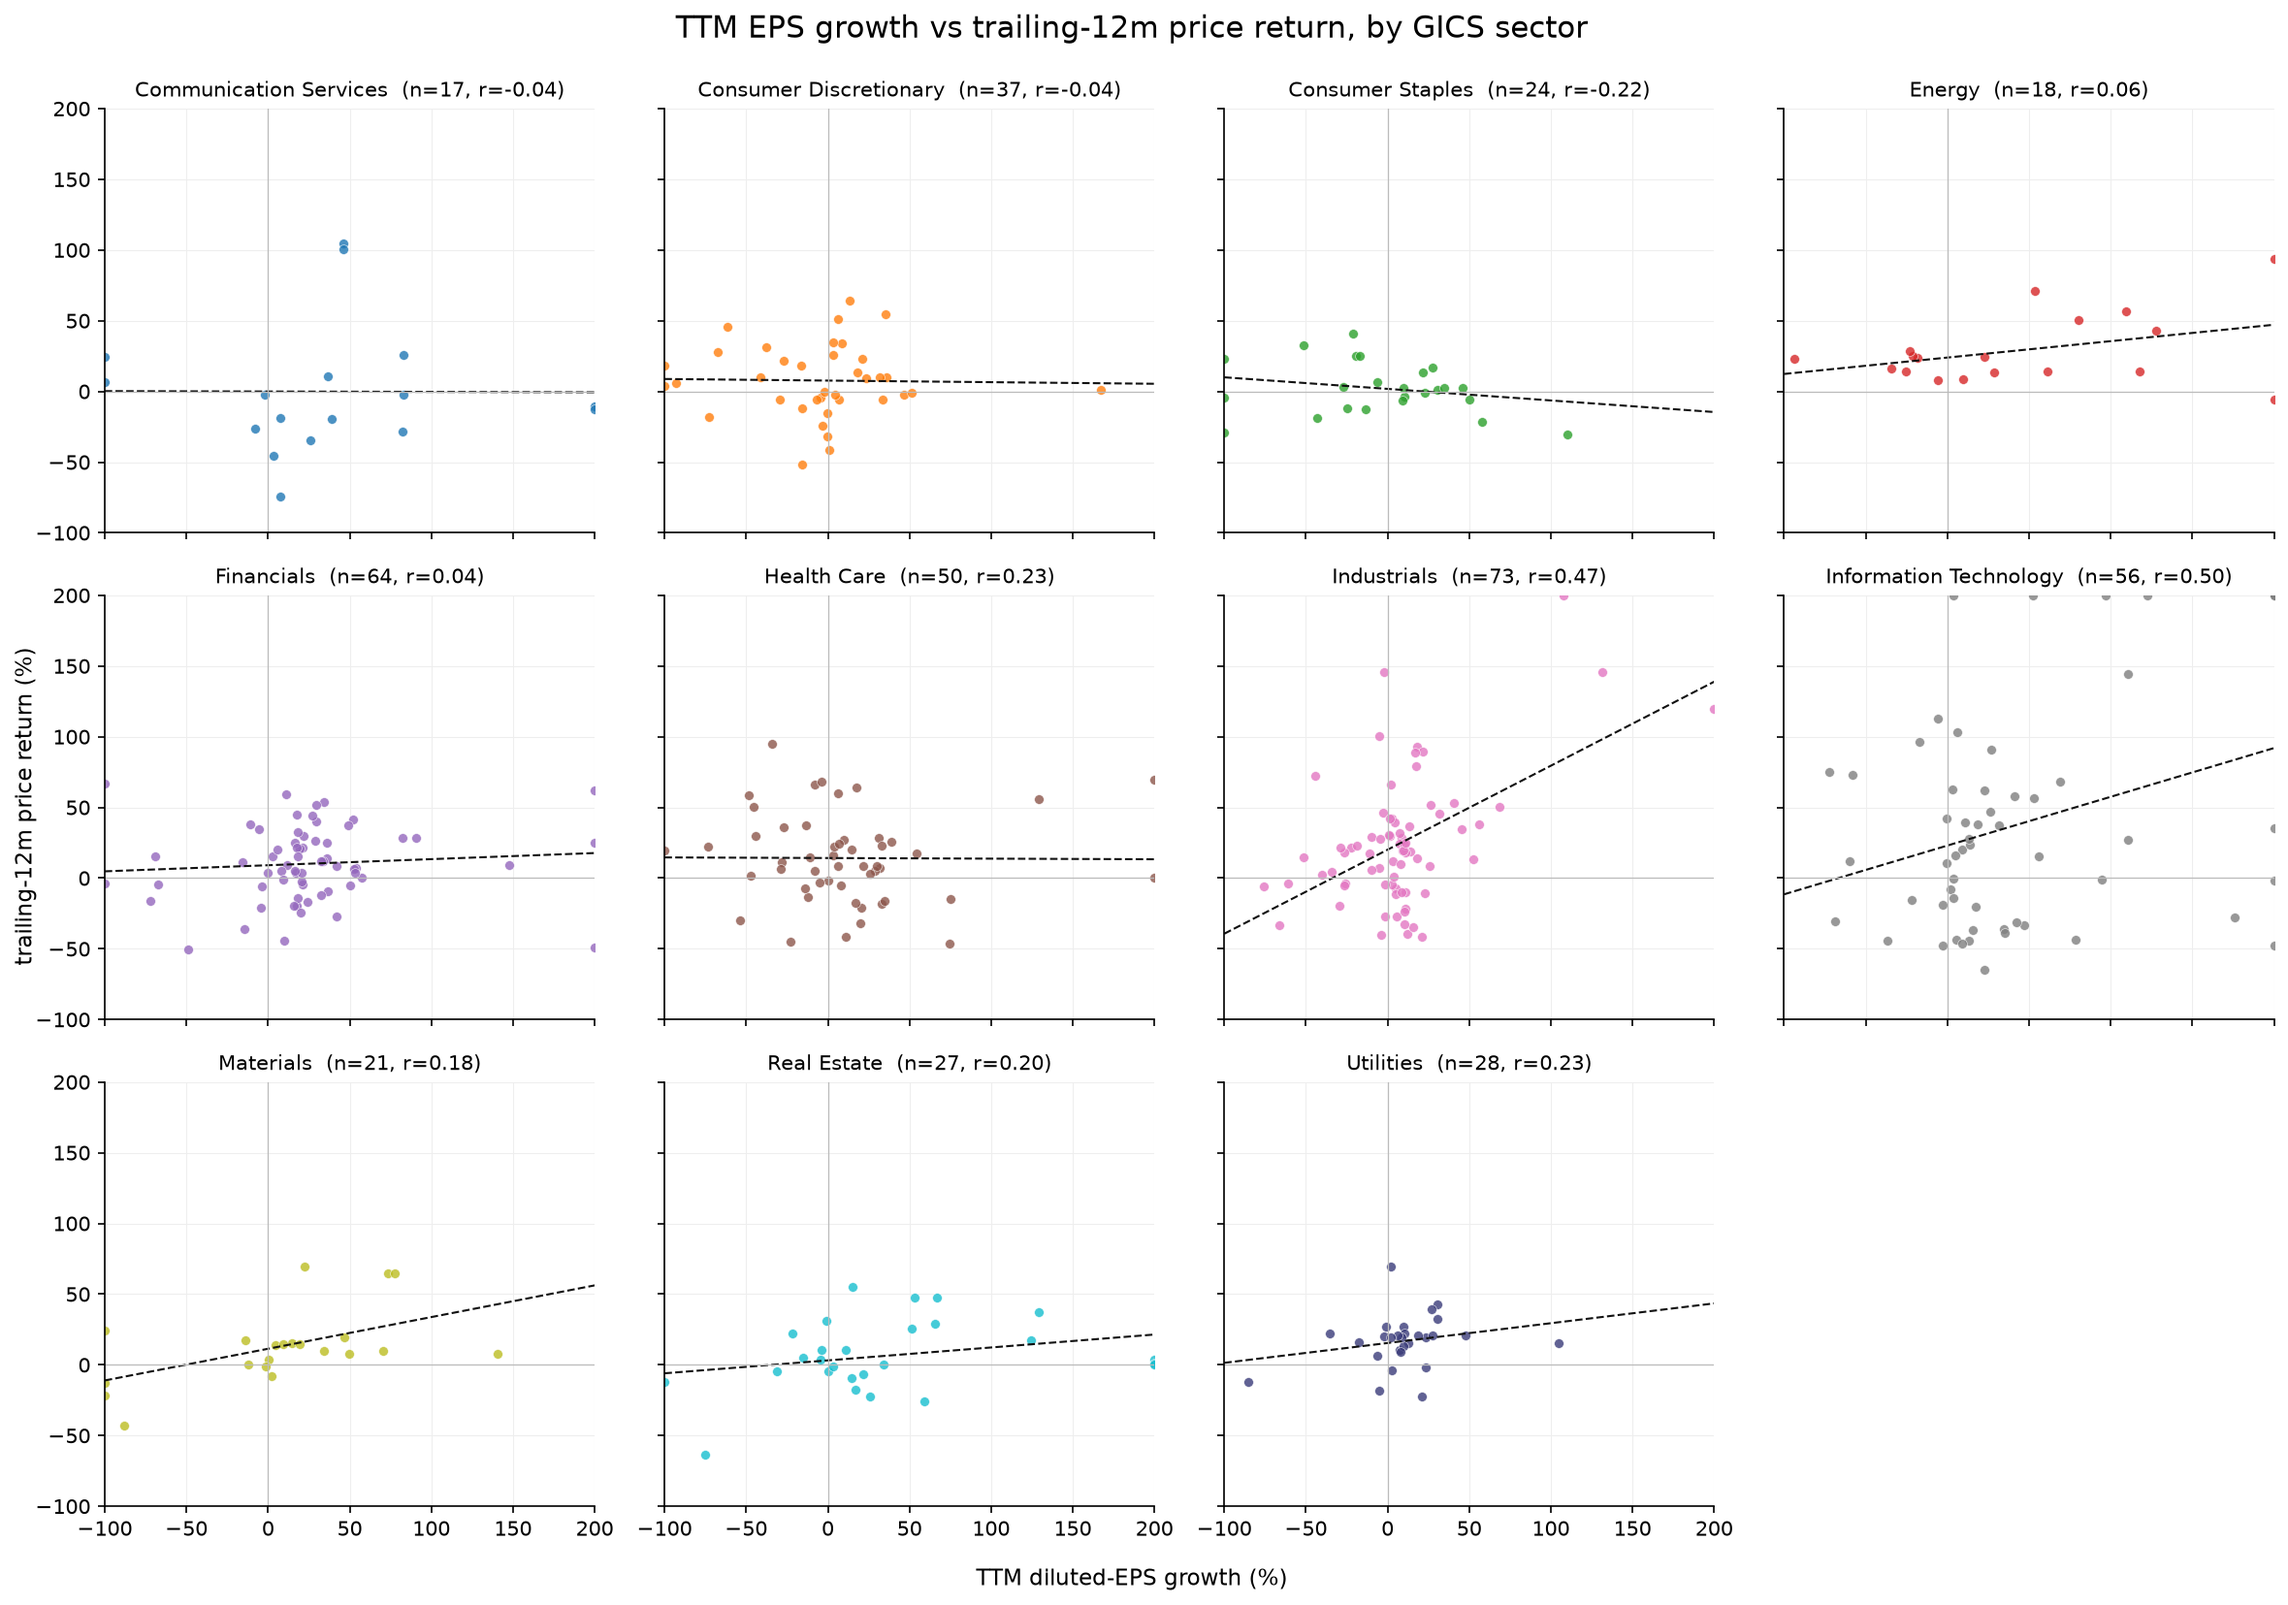
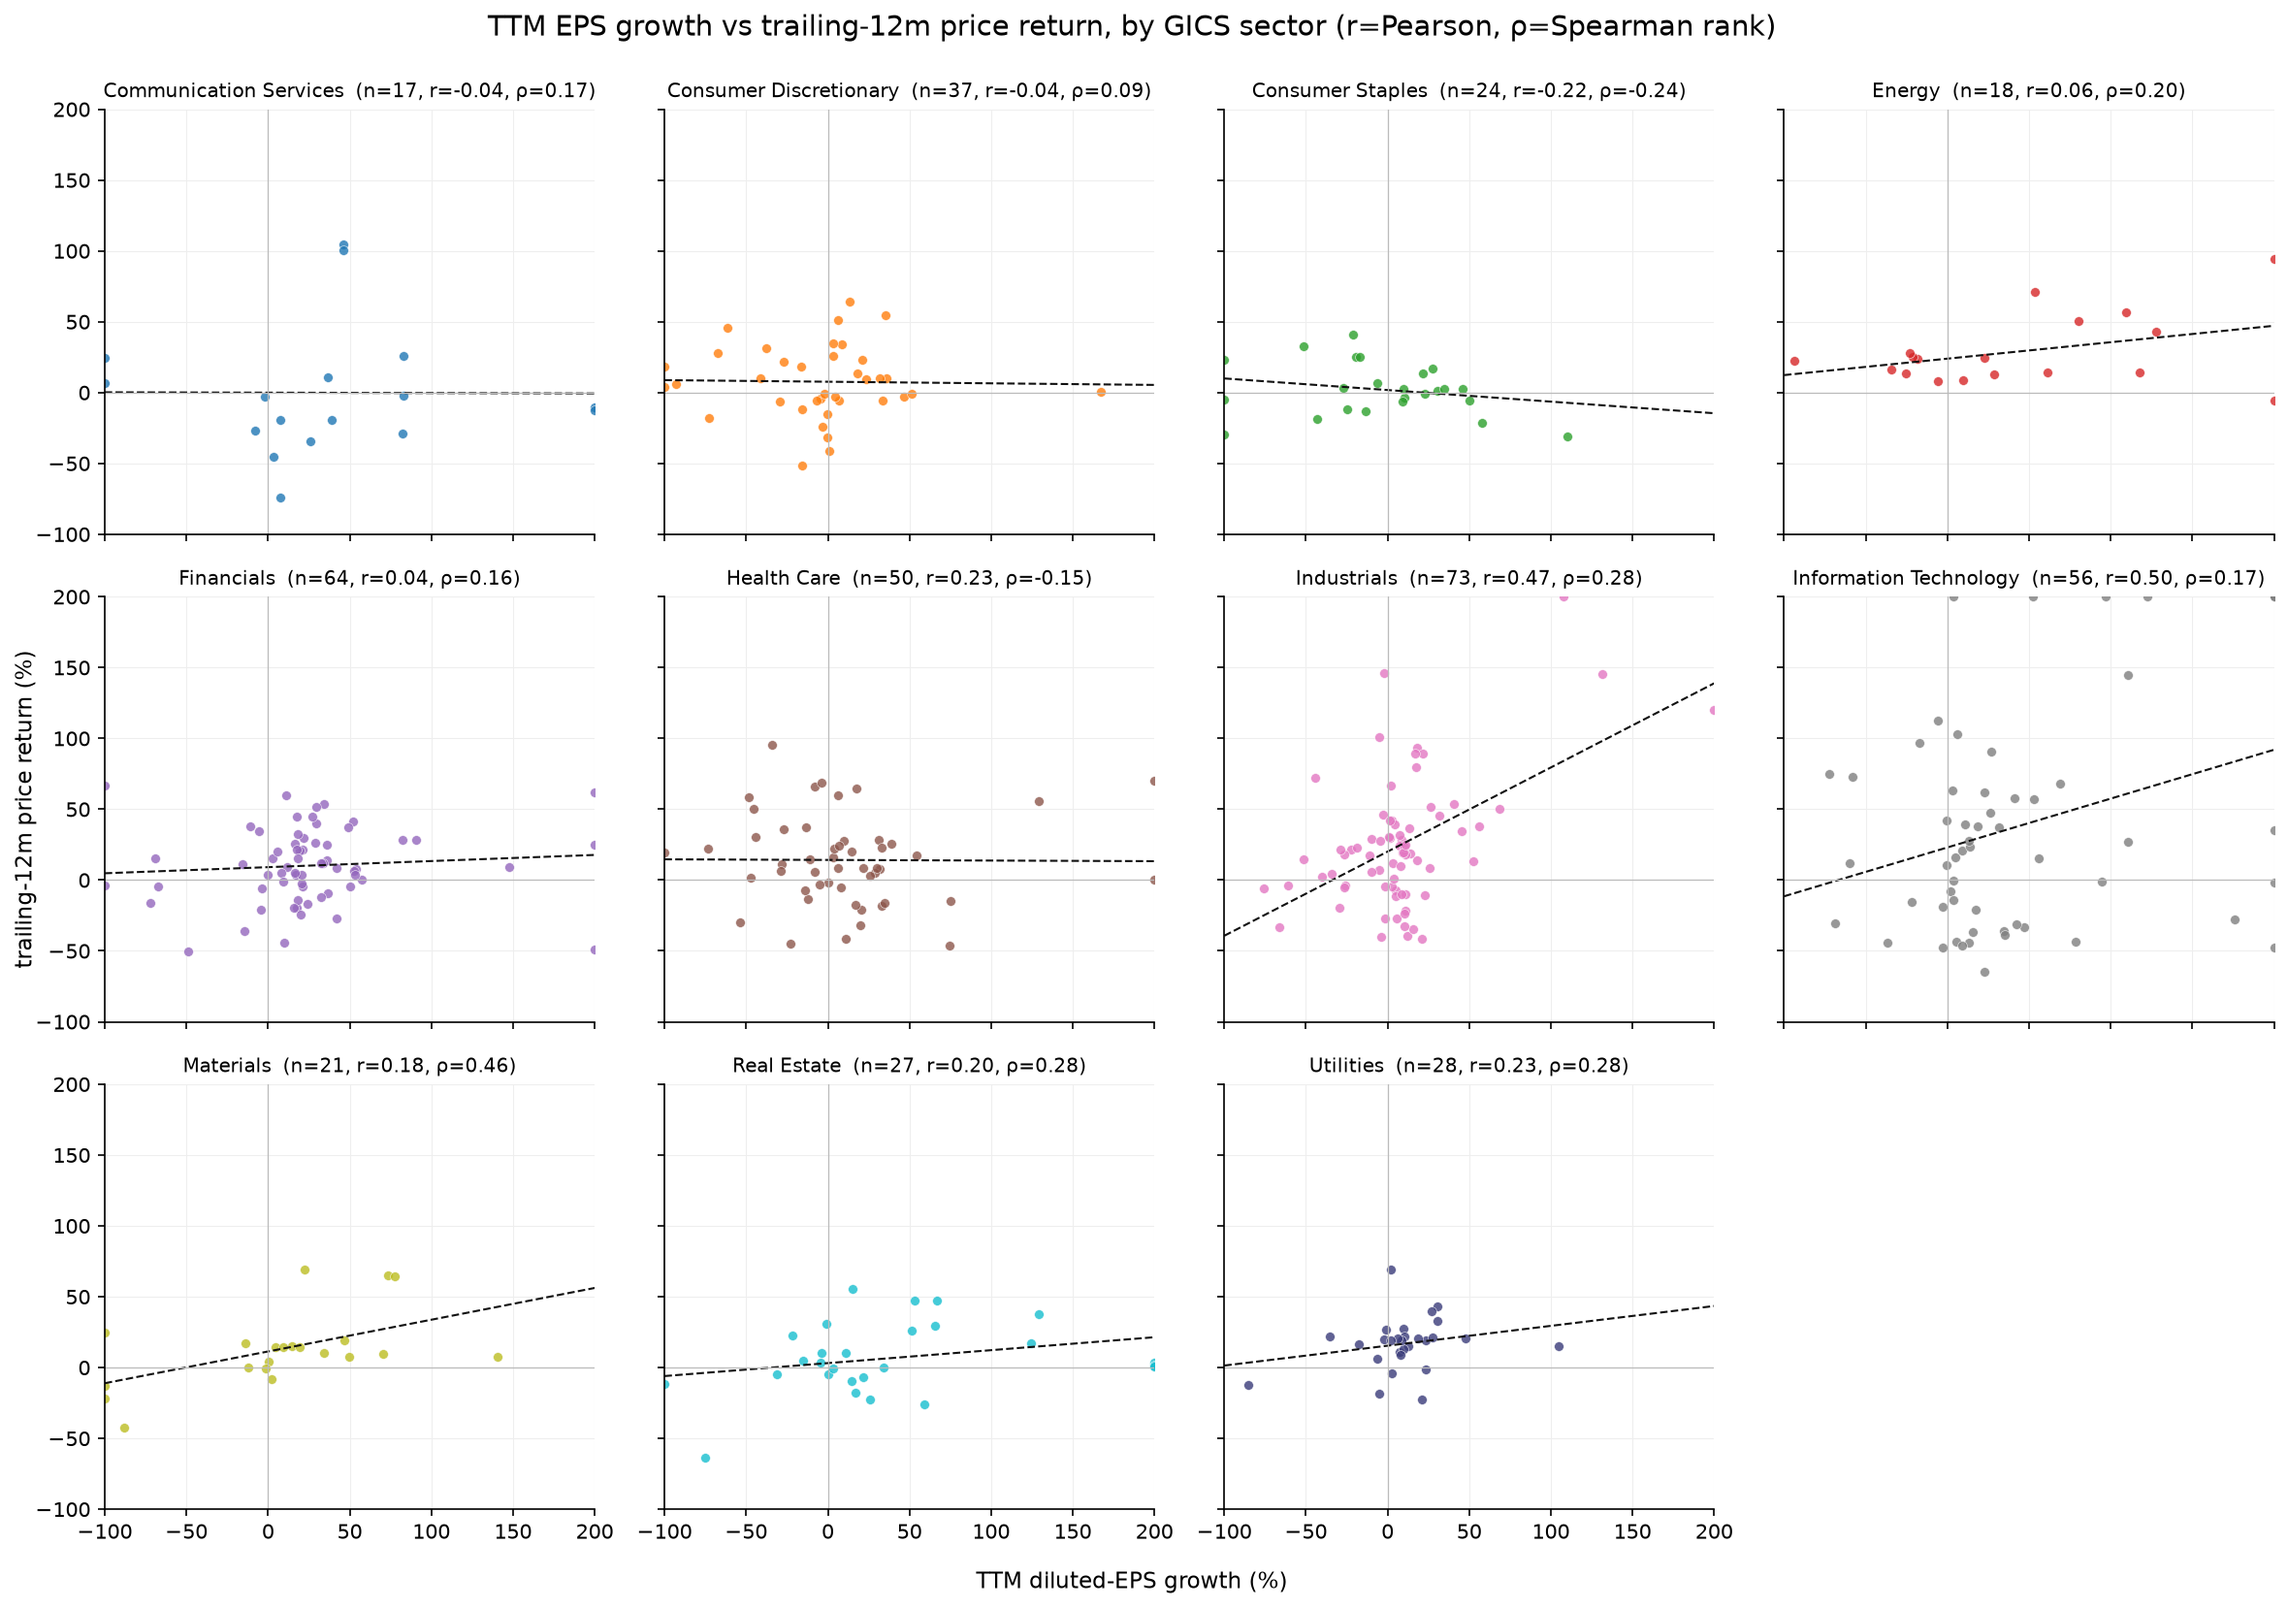
Make suite figures robust: Spearman, winsorized fit, loss-base note
All suite scatters now report Pearson r and Spearman rank rho, draw a
winsorized (axis-clipped) fit line, and footnote how many names are dropped
for a year-ago EPS <= 0 (loss base). The rank view revises the story: Info
Tech's link is mostly outliers (r=0.50 -> rho=0.17), Materials strengthens
(0.18 -> 0.46), Health Care flips negative (0.23 -> -0.15); all windows are
similar on a robust basis (rho ~0.11-0.15).

Claude-Session: https://claude.ai/code/session_01BbkPimLxVmaZSwdJRTFJuN

diff --git a/spx_earnings_price_suite.py b/spx_earnings_price_suite.py
@@ -26,6 +26,7 @@ import pandas as pd
 import matplotlib
 matplotlib.use("Agg")
 import matplotlib.pyplot as plt
+from scipy.stats import spearmanr
 
 import spx_earnings_vs_price as base   # constituents, pull_prices, dedupe, edgar_eps
 
@@ -81,12 +82,13 @@ def scatter(ax, x, y, sectors, title, xlab, ylab, lim=(-100, 200), fit=True):
                    edgecolor="white", linewidth=0.3, label=s)
     ax.axhline(0, color="#999", lw=0.7)
     ax.axvline(0, color="#999", lw=0.7)
-    r = x.corr(y)
+    r = x.corr(y)                                   # Pearson (outlier-sensitive)
+    rho = spearmanr(x, y)[0]                         # Spearman rank (robust)
     if fit and x.notna().sum() > 3:
-        b, a = np.polyfit(x.clip(*lim), y.clip(*lim), 1)
+        b, a = np.polyfit(fx, fy, 1)                 # winsorized fit (clipped to axis)
         xs = np.array(lim)
         ax.plot(xs, a + b * xs, "--", color="#111", lw=1.3,
-                label=f"slope={b:.2f}, r={r:.2f}")
+                label=f"winsor. slope={b:.2f}\nr={r:.2f}  ρ={rho:.2f}")
     ax.set_xlim(*lim)
     ax.set_ylim(*lim)
     ax.set_title(title, fontsize=13)
@@ -96,7 +98,7 @@ def scatter(ax, x, y, sectors, title, xlab, ylab, lim=(-100, 200), fit=True):
     ax.set_axisbelow(True)
     for sp in ["top", "right"]:
         ax.spines[sp].set_visible(False)
-    return r
+    return r, rho
 
 
 def main():
@@ -137,6 +139,22 @@ def main():
     con["eps_ttm"] = con["cik"].map(ttm_growth)
     con["eps_q"] = con["cik"].map(q_yoy)     # latest quarter YoY == YTD-2026 (only Q1 out)
 
+    # Loss-base selection effect: names dropped because the year-ago base was <= 0
+    # (a % growth is undefined), which disproportionately removes turnaround names.
+    def lossbase_ttm(cik):
+        try:
+            return (fy24[cik] - q1_24[cik] + q1_25[cik]) <= 0
+        except KeyError:
+            return False
+    n_ttm_loss = int(con["cik"].map(lossbase_ttm).sum())
+    n_q_loss = int(con["cik"].map(lambda c: q1_25.get(c, 1) <= 0).sum())
+    NOTE_TTM = (f"TTM = FY - Q1_prior + Q1_latest (EDGAR). Price: Databento DBEQ.BASIC, "
+                f"split-adjusted. r=Pearson, ρ=Spearman rank; fit winsorized to axis "
+                f"(±200%). {n_ttm_loss} names excluded: year-ago EPS ≤ 0 (loss base).")
+    NOTE_Q = ("r=Pearson, ρ=Spearman rank; fit winsorized to axis. "
+              f"{n_q_loss} names excluded: year-ago Q1 EPS ≤ 0 (loss base) — this drops "
+              "many turnaround/high-flyer names (e.g. WDC, STX, INTC).")
+
     sectors = sorted(con["sector"].unique())
     pal = ["#1f77b4", "#ff7f0e", "#2ca02c", "#d62728", "#9467bd", "#8c564b",
            "#e377c2", "#7f7f7f", "#bcbd22", "#17becf", "#393b79"]
@@ -146,16 +164,15 @@ def main():
     d = con.dropna(subset=["eps_ttm", "px_12m"])
     print(f"\n[Fig1] TTM: {len(d)} names")
     fig, ax = plt.subplots(figsize=(11, 8))
-    r = scatter(ax, d["eps_ttm"], d["px_12m"], d["sector"],
-                "S&P 500: TTM EPS growth vs trailing-12m price return",
-                "TTM diluted-EPS growth (%)", "trailing-12m price return (%)")
+    r, rho = scatter(ax, d["eps_ttm"], d["px_12m"], d["sector"],
+                     "S&P 500: TTM EPS growth vs trailing-12m price return",
+                     "TTM diluted-EPS growth (%)", "trailing-12m price return (%)")
     ax.legend(loc="upper left", fontsize=7.5, frameon=False, ncol=2)
-    ax.text(0, -0.09, "TTM = FY - Q1_prior + Q1_latest (EDGAR frames). "
-            "Price: Databento DBEQ.BASIC, split-adjusted. Axes clipped +/-200%.",
-            transform=ax.transAxes, fontsize=8, style="italic", color="#666")
+    ax.text(0, -0.10, NOTE_TTM, transform=ax.transAxes, fontsize=8,
+            style="italic", color="#666")
     fig.tight_layout()
     fig.savefig(f"{HERE}/spx_fig1_ttm.png", dpi=150, bbox_inches="tight")
-    print(f"       overall r={r:.3f}")
+    print(f"       Pearson r={r:.3f}  Spearman ρ={rho:.3f}")
 
     # ============ Figure 2: sector facet ============
     fig, axes = plt.subplots(3, 4, figsize=(16, 11), sharex=True, sharey=True)
@@ -163,29 +180,29 @@ def main():
     for ax, s in zip(axes.flat, sectors):
         sub = d[d["sector"] == s]
         rr = sub["eps_ttm"].corr(sub["px_12m"]) if len(sub) > 3 else np.nan
-        persec[s] = (len(sub), rr)
+        rho = spearmanr(sub["eps_ttm"], sub["px_12m"])[0] if len(sub) > 3 else np.nan
+        persec[s] = (len(sub), rr, rho)
         ax.scatter(sub["eps_ttm"].clip(-100, 200), sub["px_12m"].clip(-100, 200),
                    s=22, alpha=0.8, color=SECTOR_COLORS[s], edgecolor="white", linewidth=0.3)
         if len(sub) > 3:
             b, a = np.polyfit(sub["eps_ttm"].clip(-100, 200), sub["px_12m"].clip(-100, 200), 1)
             ax.plot([-100, 200], [a - 100 * b, a + 200 * b], "--", color="#111", lw=1)
         ax.axhline(0, color="#bbb", lw=0.6); ax.axvline(0, color="#bbb", lw=0.6)
-        ax.set_title(f"{s}  (n={len(sub)}, r={rr:.2f})", fontsize=10)
+        ax.set_title(f"{s}  (n={len(sub)}, r={rr:.2f}, ρ={rho:.2f})", fontsize=9.5)
         ax.set_xlim(-100, 200); ax.set_ylim(-100, 200)
         ax.grid(True, color="#eee", lw=0.5); ax.set_axisbelow(True)
         for sp in ["top", "right"]: ax.spines[sp].set_visible(False)
     for ax in axes.flat[len(sectors):]:
         ax.axis("off")
-    fig.suptitle("TTM EPS growth vs trailing-12m price return, by GICS sector",
-                 fontsize=15, y=0.995)
+    fig.suptitle("TTM EPS growth vs trailing-12m price return, by GICS sector "
+                 "(r=Pearson, ρ=Spearman rank)", fontsize=14, y=0.997)
     fig.supxlabel("TTM diluted-EPS growth (%)", fontsize=11)
     fig.supylabel("trailing-12m price return (%)", fontsize=11)
     fig.tight_layout()
     fig.savefig(f"{HERE}/spx_fig2_sector_facet.png", dpi=150, bbox_inches="tight")
 
     # ============ Figure 3: sector medians ============
-    med = (d.groupby("sector")[["eps_ttm", "px_12m"]].median()
-           .join(pd.Series({s: persec[s][1] for s in persec}, name="r")))
+    med = d.groupby("sector")[["eps_ttm", "px_12m"]].median()
     fig, ax = plt.subplots(figsize=(11, 8))
     for s, row in med.iterrows():
         ax.scatter(row["eps_ttm"], row["px_12m"], s=140, color=SECTOR_COLORS[s],
@@ -195,7 +212,8 @@ def main():
     b, a = np.polyfit(med["eps_ttm"], med["px_12m"], 1)
     xs = np.array([med["eps_ttm"].min() - 3, med["eps_ttm"].max() + 3])
     ax.plot(xs, a + b * xs, "--", color="#111", lw=1.2,
-            label=f"slope={b:.2f}, r={med['eps_ttm'].corr(med['px_12m']):.2f}")
+            label=f"slope={b:.2f}, r={med['eps_ttm'].corr(med['px_12m']):.2f}, "
+                  f"ρ={spearmanr(med['eps_ttm'], med['px_12m'])[0]:.2f}")
     ax.axhline(0, color="#999", lw=0.7); ax.axvline(0, color="#999", lw=0.7)
     ax.set_title("Sector medians: TTM EPS growth vs trailing-12m price return", fontsize=13)
     ax.set_xlabel("median TTM diluted-EPS growth (%)", fontsize=10)
@@ -210,39 +228,38 @@ def main():
     dq = con.dropna(subset=["eps_q", "px_q1"])
     print(f"[Fig4] last-quarter: {len(dq)} names")
     fig, ax = plt.subplots(figsize=(11, 8))
-    rq = scatter(ax, dq["eps_q"], dq["px_q1"], dq["sector"],
-                 "S&P 500: Q1-2026 YoY EPS growth vs Q1-2026 price return",
-                 "Q1-2026 YoY diluted-EPS growth (%)", "price return during Q1-2026 (Jan-Mar, %)",
-                 lim=(-80, 120))
+    rq, rhoq = scatter(ax, dq["eps_q"], dq["px_q1"], dq["sector"],
+                       "S&P 500: Q1-2026 YoY EPS growth vs Q1-2026 price return",
+                       "Q1-2026 YoY diluted-EPS growth (%)", "price return during Q1-2026 (Jan-Mar, %)",
+                       lim=(-80, 120))
     ax.legend(loc="upper left", fontsize=7.5, frameon=False, ncol=2)
-    ax.text(0, -0.09, "Earnings period Jan-Mar 2026 paired with price return over the "
-            "same quarter. Latest fully-reported quarter (Q2-2026 not yet filed).",
-            transform=ax.transAxes, fontsize=8, style="italic", color="#666")
+    ax.text(0, -0.10, "Jan-Mar 2026 earnings paired with same-quarter price return "
+            "(Q2-2026 not yet filed). " + NOTE_Q, transform=ax.transAxes,
+            fontsize=8, style="italic", color="#666")
     fig.tight_layout()
     fig.savefig(f"{HERE}/spx_fig4_last_quarter.png", dpi=150, bbox_inches="tight")
-    print(f"       r={rq:.3f}")
+    print(f"       Pearson r={rq:.3f}  Spearman ρ={rhoq:.3f}")
 
     # ============ Figure 5: YTD ============
     dy = con.dropna(subset=["eps_q", "px_ytd"])
     print(f"[Fig5] YTD: {len(dy)} names")
     fig, ax = plt.subplots(figsize=(11, 8))
-    ry = scatter(ax, dy["eps_q"], dy["px_ytd"], dy["sector"],
-                 "S&P 500: YTD-2026 EPS growth vs YTD-2026 price return",
-                 "YTD-2026 EPS growth (%)  [= Q1'26 vs Q1'25; Q2 not filed]",
-                 "YTD-2026 price return (Dec 31 -> now, %)", lim=(-80, 150))
+    ry, rhoy = scatter(ax, dy["eps_q"], dy["px_ytd"], dy["sector"],
+                       "S&P 500: YTD-2026 EPS growth vs YTD-2026 price return",
+                       "YTD-2026 EPS growth (%)  [= Q1'26 vs Q1'25; Q2 not filed]",
+                       "YTD-2026 price return (Dec 31 -> now, %)", lim=(-80, 150))
     ax.legend(loc="upper left", fontsize=7.5, frameon=False, ncol=2)
-    ax.text(0, -0.09, "YTD earnings currently = Q1-2026 (only reported 2026 quarter). "
-            "Will extend to Q2 once it is filed.", transform=ax.transAxes,
-            fontsize=8, style="italic", color="#666")
+    ax.text(0, -0.10, "YTD earnings currently = Q1-2026 (only reported 2026 quarter). "
+            + NOTE_Q, transform=ax.transAxes, fontsize=8, style="italic", color="#666")
     fig.tight_layout()
     fig.savefig(f"{HERE}/spx_fig5_ytd.png", dpi=150, bbox_inches="tight")
-    print(f"       r={ry:.3f}")
+    print(f"       Pearson r={ry:.3f}  Spearman ρ={rhoy:.3f}")
 
     # ---- summary table ----
     print("\nPer-sector correlation (TTM EPS growth vs 12m price return):")
     for s in sectors:
-        n, rr = persec[s]
-        print(f"  {s:26s} n={n:3d}  r={rr:+.2f}")
+        n, rr, rho = persec[s]
+        print(f"  {s:26s} n={n:3d}  Pearson r={rr:+.2f}  Spearman ρ={rho:+.2f}")
     con.to_csv(f"{HERE}/spx_earnings_price_suite.csv", index=False)
     print("\nSaved 5 figures + spx_earnings_price_suite.csv")
 
